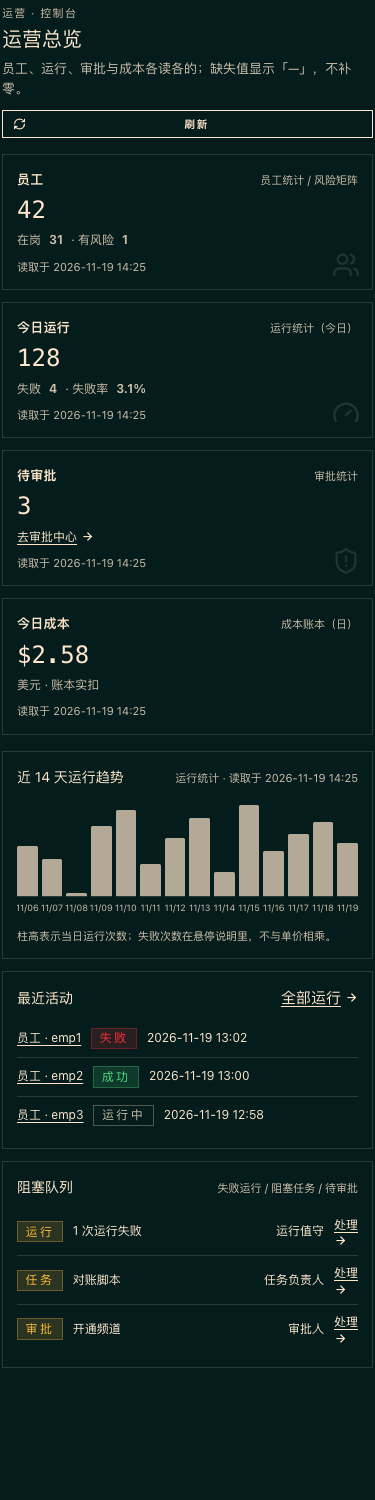
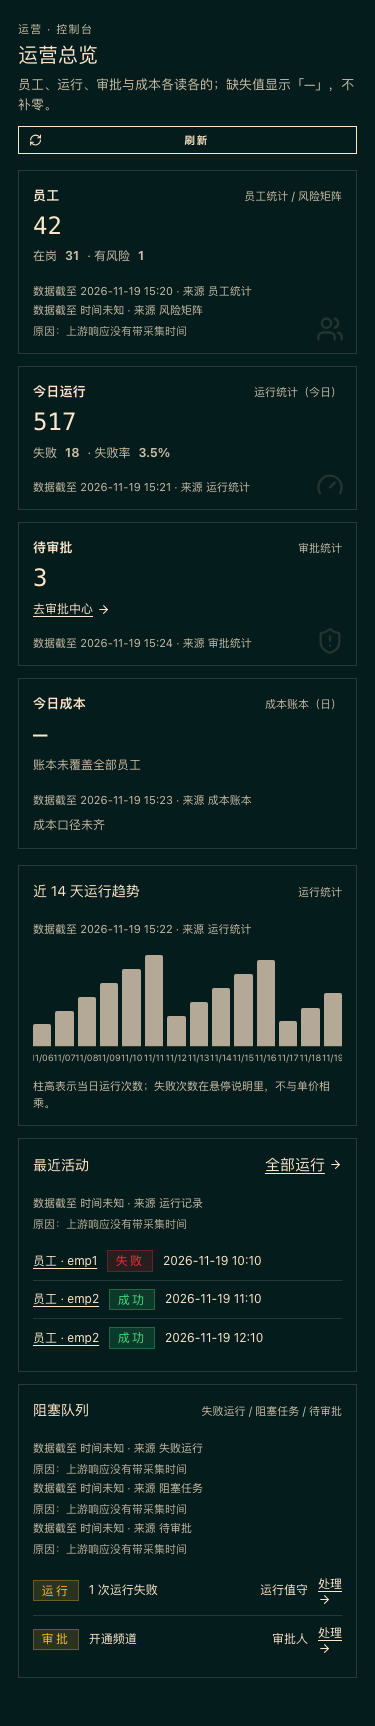
docs(console): overview freshness evidence (ov5)

diff --git a/docs/_artifacts/gov/DONE.md b/docs/_artifacts/gov/DONE.md
@@ -696,3 +696,61 @@ built /Users/kevin_studio/Projects/forks/console-gov/hermes_cli/web_dist/index.h
 - 无真实 200（无登录态）；401 仅证明鉴权门。
 - 1439 宽下未做像素级对比；观察者复核未跑，仅本地 DOM 与截图自检。
 - 预置 fixture 仅用于预览，带 `data-fixture="1"` 与可见标注，不参与任何线上结论。
+
+## OV5 尾项 · 数据截至时间与自动恢复（2026-11-19）
+
+### 交付
+
+- 基线 `c4c6e750`；页面 commit `4d6c052a feat(console): overview freshness stamps and auto recovery (ov5)`，push `5c90504a..4d6c052a lane/console-gov`。
+- 文件：`web/src/modules/overview/{OverviewPage.tsx,OverviewPage.test.tsx,overview.ts,overview.css}`。未改 App/shell/manifest/pages/scripts/package。
+- 每个 KPI、趋势、最近活动、阻塞队列逐来源上屏「数据截至 <北京时间到分> · 来源 <名称>」。来源响应无采集时间时写「数据截至 时间未知」+ 具体原因；读取中、读取失败、无来源分别有原因。**不使用浏览器当前时间冒充采集时间**。
+- 采集时间只读上游 `asOf/as_of/generatedAt/generated_at/snapshotAt/collectedAt/updatedAt/lastUpdated`（含 `meta/source/ledger` 嵌套）；无法解析按未知处理。
+- 任一来源出错后，页面 20 秒自动重试一次；手动「刷新」和块内「重试」同样重跑全部来源，服务恢复后自动回填。错误态保留可复制请求编号。
+- GAP 编号仍只在对应说明的 `title`；正文零 GAP/HTTP/裸字段。
+
+### 端点真实度
+
+```text
+本轮未取得真实 200（无登录态）。页面读取既有 BFF 端点：
+员工统计 / 运行统计 / 审批统计 / 成本账本 / 运行记录 / 阻塞任务 / 风险矩阵。
+上游是否带采集时间因端点而异；缺失时按上述规则显示「时间未知」+ 原因，不补时间。
+```
+
+### 原始 stdout
+
+```text
+$ cd web && ./node_modules/.bin/tsc -b . --noEmit
+# TSC_EXIT=0
+
+$ cd web && npx vitest run src/modules/overview
+ Test Files  1 passed (1)
+      Tests  8 passed (8)
+
+$ cd web && npx vitest run
+ Test Files  118 passed (118)
+      Tests  1157 passed (1157)
+
+$ cd /Users/kevin_studio/Projects/forks/console-gov && PATH="/opt/homebrew/bin:$PATH" pnpm --filter web build
+built /Users/kevin_studio/Projects/forks/console-gov/hermes_cli/web_dist/index.html
+# BUILD_EXIT=0
+```
+
+### DOM 读数（Chrome CDP，临时 harness，已删除）
+
+```text
+1440×900: vw=1440 bodySW=1440 bodyCW=1440 pageSW=1408 pageCW=1408 kpis=4 stamps=10
+1280×800: vw=1280 bodySW=1280 bodyCW=1280 pageSW=1248 pageCW=1248 kpis=4 stamps=10
+375×812:  vw=375 bodySW=375 bodyCW=375 pageSW=343 pageCW=343 kpis=4 stamps=10
+```
+
+三档 body 宽度均等于视口，无横向溢出；375 为单列卡片，10 条时间/来源说明完整。截图：`docs/_artifacts/gov/shots/ov5-1440.png`、`ov5-1280.png`、`ov5-375.png`。
+
+### 需壳层注册的路由/槽位清单
+
+- 无。`/overview` 已由 App 挂到 overview 模块；本页未改 App/shell/manifest。
+
+### 边界
+
+- 真实 200 未取得（无登录态）；截图数据为临时 fixture 的 DOM 证明，不代表线上数值。
+- 自动恢复为 20 秒静默重试，只在前端运行期间生效；不保证服务恢复瞬间立即刷新。
+- 独立观察者未跑，完成 DOM 测量与截图自检。
